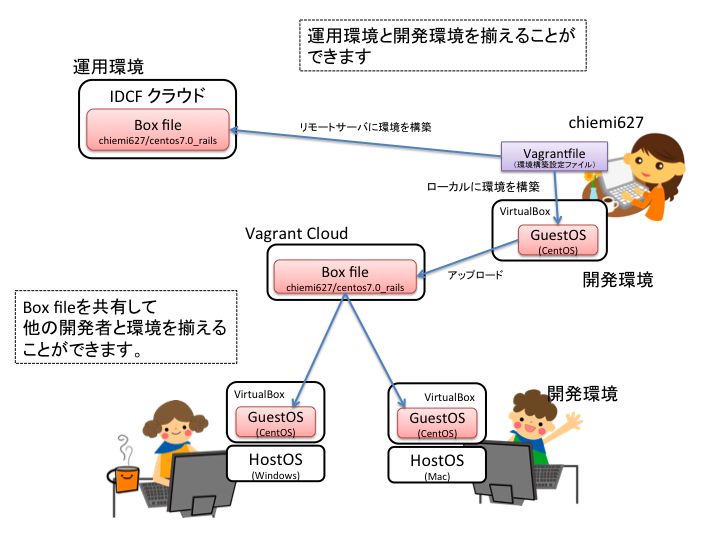
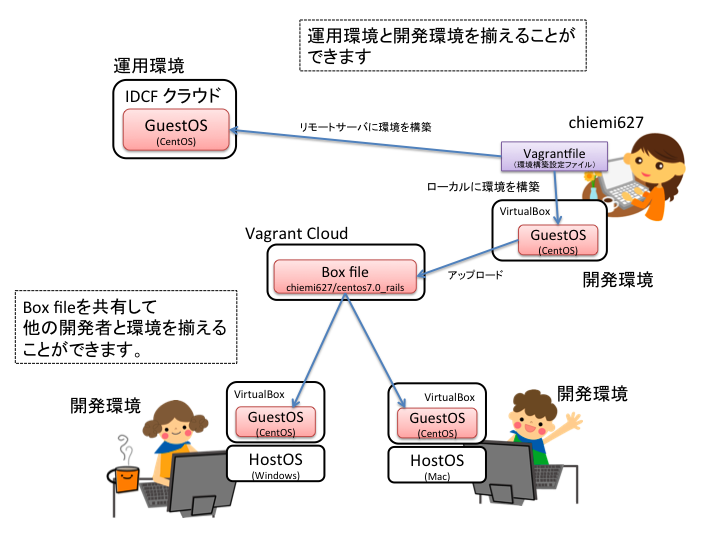
add navigator and modify a figure

Changed region(s): [[0.0917, 0.0889, 0.3056, 0.2963], [0.0917, 0.7111, 0.2139, 0.7704], [0.7639, 0.7111, 0.8861, 0.7407]]

diff --git a/preparation.md b/preparation.md
@@ -48,5 +48,6 @@ Git bashを起動してフォントや作業フォルダの設定をします。
 * スクリーンキャスト
   * http://youtu.be/eNlQpInE3Xg
 
-
 これで準備は終了です。
+
+* 準備が終わったら… [開発環境(仮想マシン)を構築する](generateVM.md)

diff --git a/generateVM.md b/generateVM.md
@@ -64,3 +64,4 @@ Host enpit
 % ssh enpit
 ```
 とするとvagrant sshと同じ設定でログインできます。
+
